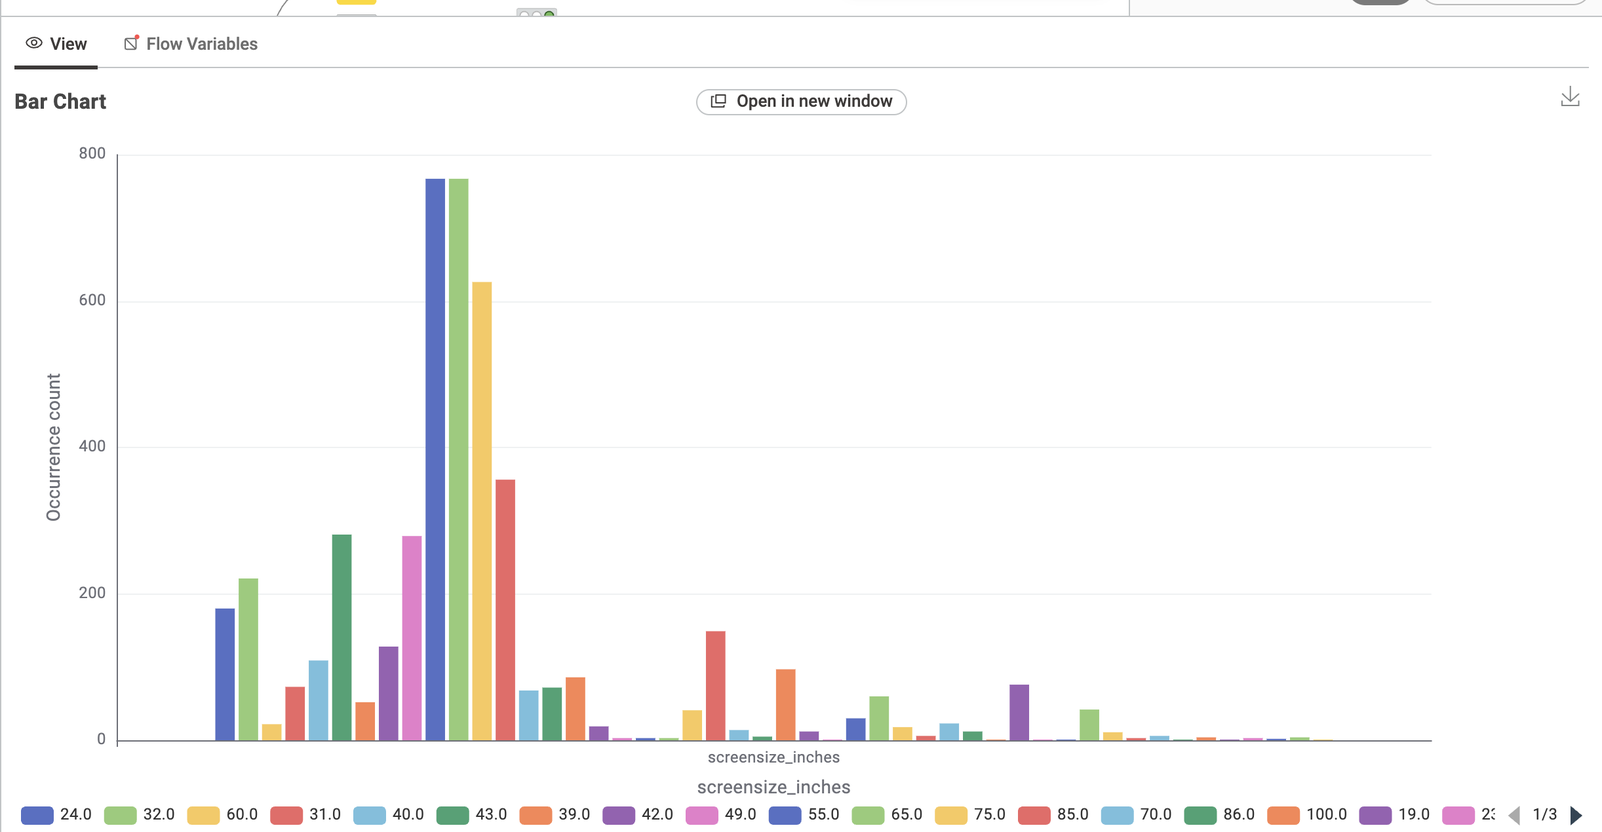
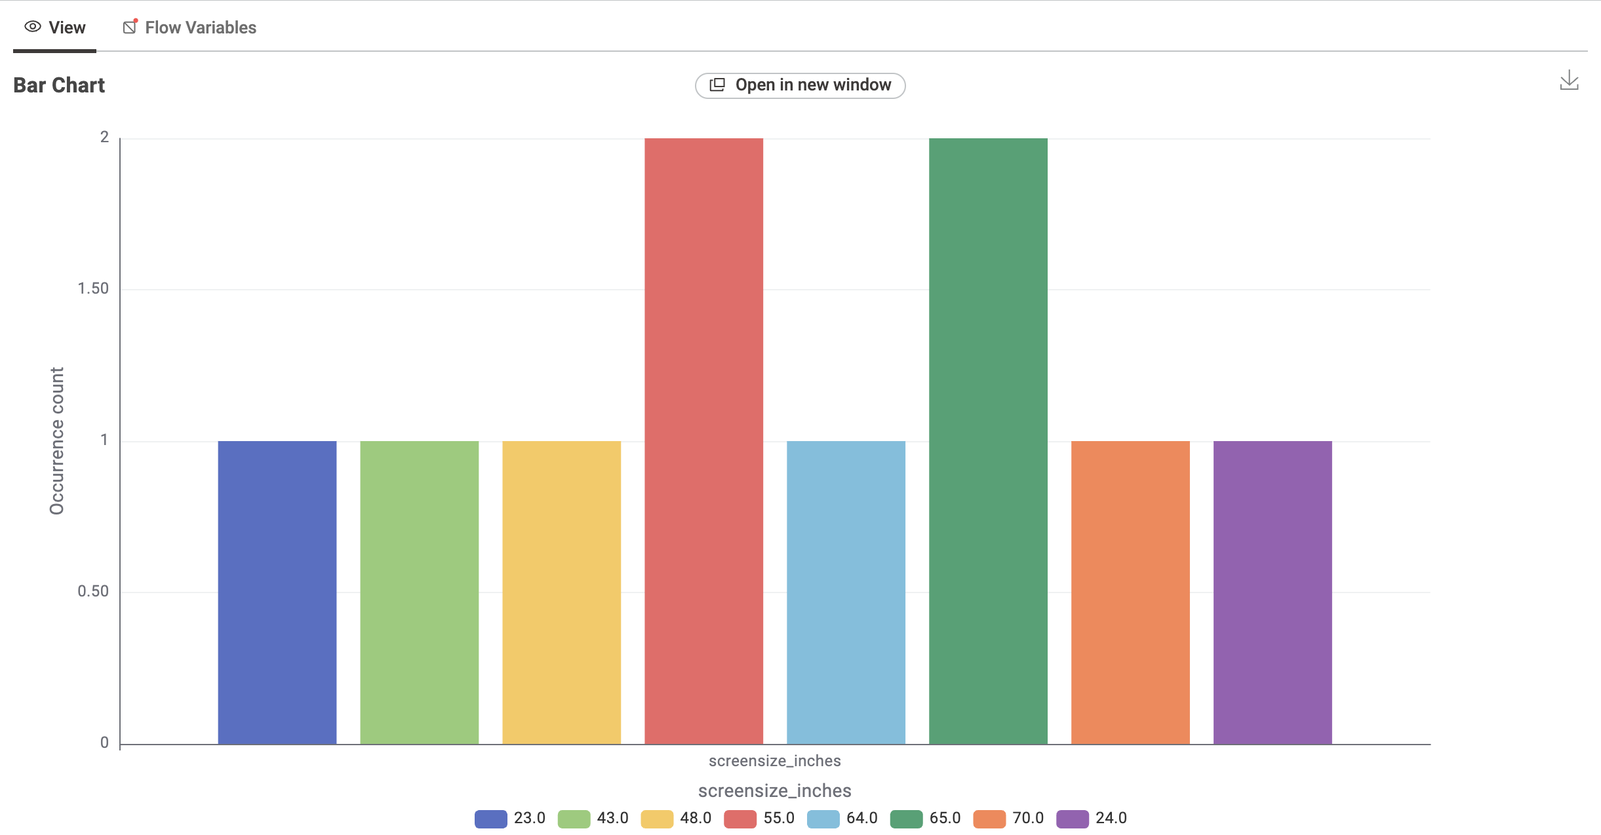
Big Changes

diff --git a/style.css b/style.css
@@ -1,116 +1,154 @@
 /* Colours taken from the Power logo */
 :root {
   /* Main dark colour used for headings and the header. */
-  --brown: #5b3826;
+  --brown: #5b3826; /* Stores the site's main dark colour. */
   /* Light background colour used throughout the site. */
-  --cream: #fdf3d1;
+  --cream: #fdf3d1; /* Stores the site's light background colour. */
   /* Accent colour used for highlights and hover states. */
-  --orange: #f2a530;
+  --orange: #f2a530; /* Stores the site's accent colour. */
   /* Reusable white colour for cards and text. */
-  --white: #ffffff;
+  --white: #ffffff; /* Stores the reusable white colour. */
   /* Default text colour. */
-  --text: #333333;
+  --text: #333333; /* Stores the default text colour. */
 }
 
 /* Make width and height calculations include padding and borders. */
-* { box-sizing: border-box; }
+* { box-sizing: border-box; /* Includes padding and borders in element dimensions. */ }
 
 /* Set the default appearance for the whole document. */
 body {
   /* Remove the browser's default page margin. */
-  margin: 0;
+  margin: 0; /* Removes the browser's default page margin. */
   /* Choose the main font for the page. */
-  font-family: Arial, sans-serif;
+  font-family: Arial, sans-serif; /* Sets the site's default typeface. */
   /* Add comfortable vertical spacing between lines of text. */
-  line-height: 1.6;
+  line-height: 1.6; /* Adds readable vertical spacing between text lines. */
   /* Use the reusable text colour variable. */
-  color: var(--text);
+  color: var(--text); /* Applies the default text colour. */
   /* Use the cream colour as the page background. */
-  background: var(--cream);
+  background: var(--cream); /* Applies the shared page background. */
 }
 
 /* Remove underlines and inherit the surrounding text colour from links. */
-a { color: inherit; text-decoration: none; }
+a { color: inherit; text-decoration: none; /* Removes underlines and inherits link colour. */ }
 
 /* Give all heading levels the same colour and bottom spacing. */
-h1, h2, h3 { margin: 0 0 0.5rem; color: var(--brown); }
+h1, h2, h3 { margin: 0 0 0.5rem; /* Adds consistent heading spacing. */ color: var(--brown); /* Applies the heading colour. */ }
 
 /* Arrange the logo and navigation across the top of the page. */
 .site-header {
-  display: flex;
-  align-items: center;
-  justify-content: space-between;
-  flex-wrap: wrap;
-  gap: 1rem;
-  padding: 1rem 1.5rem;
-  background: var(--brown);
+  display: flex; /* Places header items in a flexible row. */
+  align-items: center; /* Vertically aligns header items. */
+  justify-content: space-between; /* Separates branding and navigation. */
+  flex-wrap: wrap; /* Allows header items to wrap on narrow screens. */
+  gap: 1rem; /* Adds space between wrapped header items. */
+  padding: 1rem 1.5rem; /* Adds space inside the header. */
+  background: var(--brown); /* Applies the shared header colour. */
 }
 
 /* Keep the logo and brand name next to each other. */
-.brand { display: flex; align-items: center; gap: 0.75rem; }
+.brand { display: flex; /* Places logo and name in one row. */ align-items: center; /* Vertically aligns logo and name. */ gap: 0.75rem; /* Adds space between logo and name. */ }
 /* Set a consistent logo size. */
-.brand img { width: 48px; height: 48px; }
+.brand img { width: 48px; /* Sets the logo width. */ height: 48px; /* Sets the logo height. */ }
 /* Style the brand name in the header. */
-.brand-name { color: var(--white); font-weight: bold; font-size: 1.1rem; }
+.brand-name { color: var(--white); /* Makes the brand name readable on the header. */ font-weight: bold; /* Emphasises the brand name. */ font-size: 1.1rem; /* Sets the brand name size. */ }
 /* Place navigation links in a row. */
-.site-nav { display: flex; gap: 0.5rem; }
+.site-nav { display: flex; /* Places navigation links in a row. */ gap: 0.5rem; /* Adds space between navigation links. */ }
 /* Style each navigation link. */
-.nav-link { padding: 0.5rem 1rem; color: var(--cream); font-weight: bold; border-radius: 4px; }
+.nav-link { padding: 0.5rem 1rem; /* Creates a comfortable link target. */ color: var(--cream); /* Applies the navigation text colour. */ font-weight: bold; /* Emphasises navigation labels. */ border-radius: 4px; /* Softens link corners. */ }
 /* Change the link colours when the pointer is over a link. */
-.nav-link:hover { background: var(--orange); color: var(--brown); }
+.nav-link:hover { background: var(--orange); /* Highlights the hovered link. */ color: var(--brown); /* Keeps hovered text readable. */ }
 /* Highlight the link for the page currently being viewed. */
-.nav-link[aria-current="page"] { background: var(--cream); color: var(--brown); }
+.nav-link[aria-current="page"] { background: var(--cream); /* Marks the current page. */ color: var(--brown); /* Applies readable current-link text. */ }
 
 /* Limit the content width and add space around it. */
-.page-shell { max-width: 1000px; margin: 0 auto; padding: 2rem 1.5rem; }
+.page-shell { max-width: 1000px; /* Limits line length on wide screens. */ margin: 0 auto; /* Centers the main content. */ padding: 2rem 1.5rem; /* Adds space around the main content. */ }
 /* Add space below the introductory text. */
-.intro { margin-bottom: 2rem; }
+.intro { margin-bottom: 2rem; /* Separates the introduction from following content. */ }
 /* Style supporting introductory text. */
-.lede { color: var(--brown); }
+.lede { color: var(--brown); /* Styles introductory supporting text. */ }
 /* Style explanatory notes in italic text. */
-.note { color: var(--brown); font-style: italic; }
+.note { color: var(--brown); /* Applies the note text colour. */ font-style: italic; /* Distinguishes explanatory notes. */ }
 
 /* Create a three-column layout for groups of cards. */
-.card-grid { display: grid; grid-template-columns: repeat(3, 1fr); gap: 1rem; margin-bottom: 1.5rem; }
+.card-grid { display: grid; /* Creates a card layout. */ grid-template-columns: repeat(3, 1fr); /* Shows three cards per row. */ gap: 1rem; /* Adds space between cards. */ margin-bottom: 1.5rem; /* Separates card groups. */ }
 /* Give each card a visible border, background, and internal spacing. */
-.card { padding: 1rem; background: var(--white); border: 2px solid var(--brown); border-radius: 6px; }
+.card { padding: 1rem; /* Adds space inside each card. */ background: var(--white); /* Gives cards a readable surface. */ border: 2px solid var(--brown); /* Defines each card edge. */ border-radius: 6px; /* Softens card corners. */ }
 
 /* Style highlighted information blocks. */
-.highlight { padding: 1rem; margin-bottom: 1.5rem; background: var(--white); border-left: 6px solid var(--orange); border-radius: 6px; }
+.highlight { padding: 1rem; /* Adds space inside the highlight. */ margin-bottom: 1.5rem; /* Separates the highlight from charts. */ background: var(--white); /* Gives the highlight a clear surface. */ border-left: 6px solid var(--orange); /* Draws attention to the highlight. */ border-radius: 6px; /* Softens the highlight corners. */ }
 /* Put the second line of a highlight on its own line. */
-.highlight span { display: block; margin-top: 0.5rem; color: var(--brown); }
+.highlight span { display: block; /* Places supporting highlight text on its own line. */ margin-top: 0.5rem; /* Separates supporting text from the summary. */ color: var(--brown); /* Applies the supporting text colour. */ }
 
-/* Allow wide tables to scroll on small screens. */
-.table-wrap { overflow-x: auto; margin-bottom: 2rem; }
-/* Make the table fill the available content width. */
-table { width: 100%; min-width: 600px; border-collapse: collapse; background: var(--white); }
-/* Add spacing and borders to table cells. */
-th, td { padding: 0.75rem 1rem; border-bottom: 1px solid var(--brown); text-align: left; }
-/* Make the table header easy to distinguish. */
-th { background: var(--brown); color: var(--white); }
-/* Style the small labels inside the table. */
-.tag { display: inline-block; padding: 0.2rem 0.5rem; background: var(--cream); border: 1px solid var(--orange); border-radius: 4px; font-size: 0.85rem; }
-
-/* Create a two-column layout for chart cards. */
-.chart-grid { display: grid; grid-template-columns: repeat(2, 1fr); gap: 1rem; margin-bottom: 1.5rem; }
-/* Frame each chart and hide anything outside its border. */
-.chart-card { margin: 0; background: var(--white); border: 2px solid var(--brown); border-radius: 6px; overflow: hidden; }
-/* Keep chart images at a consistent height. */
-.chart-card img { display: block; width: 100%; height: 220px; object-fit: contain; background: var(--white); }
-/* Add spacing around chart captions. */
-.chart-card figcaption { padding: 0.75rem 1rem; }
-/* Put the supporting caption text below the title. */
-.chart-card figcaption span { display: block; color: var(--brown); font-size: 0.9rem; }
+/* Keep each chart and its description together without a separate frame. */
+.chart-card { margin: 0; /* Removes the browser's default figure margin. */ }
+/* Keep chart images visible at their natural proportions. */
+.chart-card img { display: block; /* Removes inline-image whitespace. */ width: 100%; /* Uses the available chart width. */ object-fit: contain; /* Preserves the image proportions. */ background: var(--white); /* Gives transparent image areas a white surface. */ }
 
 /* Style the footer at the bottom of every page. */
-.site-footer { padding: 1rem 1.5rem; background: var(--brown); color: var(--cream); text-align: center; font-size: 0.85rem; }
+.site-footer { padding: 1rem 1.5rem; /* Adds space inside the footer. */ background: var(--brown); /* Applies the footer background. */ color: var(--cream); /* Applies readable footer text. */ text-align: center; /* Centers footer content. */ font-size: 0.85rem; /* Keeps footer text compact. */ }
 /* Keep footer paragraphs close together. */
-.site-footer p { margin: 0.25rem 0; }
+.site-footer p { margin: 0.25rem 0; /* Keeps footer paragraphs close together. */ }
 
 /* Adjust the layout for screens narrower than 700 pixels. */
 @media (max-width: 700px) {
   /* Stack cards and charts into one column on small screens. */
-  .card-grid, .chart-grid { grid-template-columns: 1fr; }
+  .card-grid, .chart-grid { grid-template-columns: 1fr; /* Stacks grid items on narrow screens. */ }
+  /* Keep charts readable without making the mobile page excessively tall. */
   /* Stack the header content vertically on small screens. */
-  .site-header { flex-direction: column; align-items: flex-start; }
+  .site-header { flex-direction: column; /* Stacks header groups on narrow screens. */ align-items: flex-start; /* Aligns stacked header groups to the left. */ }
+}
+
+.televisions-page {
+  background: var(--white); /* Gives the television page the sample's white background. */
+}
+
+.televisions-page .page-shell {
+  max-width: 960px; /* Matches the sample's readable content width. */
+}
+
+.televisions-page .tips-box {
+  margin: 0 0 1.5rem; /* Separates the tips box from the data story. */
+  padding: 1rem 1.25rem; /* Adds space inside the tips box. */
+  background: #fffdf5; /* Gives the tips box a subtle warm surface. */
+  border: 1px solid #e2e2e2; /* Defines the tips box edge. */
+  border-radius: 10px; /* Softens the tips box corners. */
+}
+
+.televisions-page .tips-box p,
+.televisions-page .tips-box ul {
+  margin-top: 0; /* Aligns tips content with the box's top padding. */
+}
+
+.televisions-page .tips-box ul {
+  margin-bottom: 0; /* Removes unnecessary space below the final tip. */
+}
+
+.televisions-page .chart-grid {
+  display: grid; /* Creates the single-column chart sequence. */
+  grid-template-columns: 1fr; /* Gives each chart the full content width. */
+  gap: 1.5rem; /* Separates consecutive charts. */
+  padding: 0; /* Removes shared-box padding from the old layout. */
+  background: transparent; /* Leaves charts on the page background. */
+  border: 0; /* Removes the old shared chart frame. */
+}
+
+.televisions-page .chart-card h3 {
+  margin: 0 0 0.5rem; /* Separates each chart question from its image. */
+  font-size: 1.1rem; /* Keeps chart headings prominent but compact. */
+}
+
+.televisions-page .chart-card img {
+  height: auto; /* Preserves each chart's natural aspect ratio. */
+  max-height: 620px; /* Prevents very tall images from dominating the page. */
+  object-fit: contain; /* Keeps the complete chart visible. */
+}
+
+.televisions-page .chart-description {
+  margin: 0.5rem 0 0; /* Separates the interpretation from the image. */
+  font-size: 1rem; /* Keeps chart explanations easy to read. */
+}
+
+.televisions-page .conclusion {
+  margin-top: 1.5rem; /* Separates the conclusion from the final chart. */
 }

diff --git a/televisions.html b/televisions.html
@@ -13,7 +13,7 @@
     <link rel="stylesheet" href="style.css" />
   </head>
 
-  <body>
+  <body class="televisions-page">
     <!-- Site header containing the logo and main navigation. -->
     <header class="site-header">
       <!-- Link the logo back to the home page. -->
@@ -36,54 +36,39 @@
       <section>
         <!-- Introductory heading and description. -->
         <div class="intro">
-          <h1>Televisions, in focus.</h1>
-          <p class="lede">Compare screen size and estimated energy use with your viewing habits.</p>
+          <h1>Television Energy Tips</h1>
+          <p class="lede">Simple ways to understand television energy use before choosing a new screen.</p>
         </div>
-        <h2>A sample comparison</h2>
-        <p class="note">Illustrative figures only. Check current product labels.</p>
-        <!-- Wrap the table so it can scroll horizontally on small screens. -->
-        <div class="table-wrap">
-          <!-- Compare television types, sizes, and estimated energy use. -->
-          <table>
-            <thead>
-              <tr>
-                <th>Television type</th>
-                <th>Typical size</th>
-                <th>Estimated annual use</th>
-                <th>Energy note</th>
-              </tr>
-            </thead>
-            <tbody>
-              <tr><td>LED LCD</td><td>55 inch</td><td>120 kWh</td><td><span class="tag">Efficient baseline</span></td></tr>
-              <tr><td>LED LCD</td><td>75 inch</td><td>185 kWh</td><td><span class="tag">Good with mindful use</span></td></tr>
-              <tr><td>OLED</td><td>65 inch</td><td>210 kWh</td><td><span class="tag">Variable by content</span></td></tr>
-              <tr><td>Large format</td><td>85 inch</td><td>295 kWh</td><td><span class="tag">More screen, more demand</span></td></tr>
-            </tbody>
-          </table>
+        <div class="tips-box">
+          <p><strong>Size and technology matter.</strong> Larger screens generally use more energy, while modern LED/LCD and OLED televisions can be more efficient than older technologies.</p>
+          <ul>
+            <li>Use Energy Saver or Eco mode and reduce brightness when comfortable.</li>
+            <li>Disable always-listening voice features if you do not use them.</li>
+            <li>Compare star ratings and annual kWh on the energy label before purchasing.</li>
+          </ul>
         </div>
 
-        <h2>The bigger picture behind the screen</h2>
-        <p class="note">These charts describe the available models in this dataset. They are useful for spotting patterns, not a substitute for the energy label on an individual TV.</p>
+        <h2>TV Energy Insights: Data Story</h2>
+        <p class="note">This section explores the Australian Government's Television Energy Rating dataset. The patterns below help Australian consumers compare technology, screen size, brand availability, and energy efficiency before choosing a TV.</p>
         <!-- Summarise the main pattern shown by the charts. -->
         <div class="highlight">
-          <strong>LCD (LED) is the dominant technology in the Australian listings.</strong>
-          <span>That availability connects with the other charts: the market has many mid-to-large screen options, while power use varies by both screen technology and brand.</span>
+          <strong>Screen size and technology both shape a television's energy profile.</strong>
+          <span>The dataset is led by LCD LED models and popular mid-sized screens, while the scatter plots show that larger televisions generally require more power.</span>
         </div>
         <!-- Display the project charts in a responsive grid. -->
         <div class="chart-grid">
-          <figure class="chart-card"><img src="Picture/PieChart1.png" alt="Pie chart showing LCD LED as the largest TV screen technology category" /><figcaption><strong>Screen technology mix</strong><span>LCD (LED) is the largest listed category.</span></figcaption></figure>
-          <figure class="chart-card"><img src="Picture/BarChart1.png" alt="Bar chart showing LCD LED has the highest occurrence count" /><figcaption><strong>Technology availability</strong><span>LCD (LED) appears most often.</span></figcaption></figure>
-          <figure class="chart-card"><img src="Picture/BarChart2.png" alt="Bar chart comparing television screen sizes" /><figcaption><strong>Common screen sizes</strong><span>55-inch models are the most common.</span></figcaption></figure>
-          <figure class="chart-card"><img src="Picture/BarChart3.png" alt="Bar chart comparing number of television models by brand" /><figcaption><strong>Model variety</strong><span>Kogan has the most listed models.</span></figcaption></figure>
-          <figure class="chart-card"><img src="Picture/BarChart4.png" alt="Bar chart comparing median power by screen technology" /><figcaption><strong>Power by technology</strong><span>OLED has the highest median power use.</span></figcaption></figure>
-          <figure class="chart-card"><img src="Picture/BarChart5.png" alt="Bar chart comparing power totals across brands" /><figcaption><strong>Power by brand</strong><span>Samsung Electronics has the highest total.</span></figcaption></figure>
+          <figure class="chart-card"><h3>Chart 1: What TV technologies are most common?</h3><img src="Picture/PieChart1.png" alt="Pie chart showing LCD LED as the largest TV screen technology category" /><p class="chart-description">LCD(LED) models make up most listings, while OLED is less common.</p></figure>
+          <figure class="chart-card"><h3>Chart 1: Technology counts</h3><img src="Picture/BarChart1.png" alt="Bar chart showing LCD LED has the highest occurrence count" /><p class="chart-description">The bar chart shows LCD(LED) is leading position in the dataset.</p></figure>
+          <figure class="chart-card"><h3>Chart 2: What screen sizes are most frequent?</h3><img src="Picture/BarChart2.png" alt="Bar chart comparing television screen sizes" /><p class="chart-description">55-inch and 65-inch TVs are most common.</p></figure>
+          <figure class="chart-card"><h3>Chart 3: Which brands dominate the market?</h3><img src="Picture/BarChart3.png" alt="Bar chart comparing number of television models by brand" /><p class="chart-description">Kogan, LG, and Samsung Electronics have the largest number of listed models.</p></figure>
+          <figure class="chart-card"><h3>Chart 4: Which screen type uses the least power?</h3><img src="Picture/BarChart4.png" alt="Bar chart comparing median power by screen technology" /><p class="chart-description">LCD TVs use the least power in this comparison, while OLED uses slightly more.</p></figure>
+          <figure class="chart-card"><h3>Chart 5: How does screen size relate to power use?</h3><img src="Picture/Scatter_plot_a.png" alt="Scatter plot showing the relationship between television screen size and power use" /><p class="chart-description">The relationship is clearly positive: larger TVs generally use more power.</p></figure>
+          <figure class="chart-card"><h3>Chart 6: How do star rating and screen size relate?</h3><img src="Picture/Scatter_plot_b.png" alt="Scatter plot showing the relationship between television star rating and screen size" /><p class="chart-description">Star ratings are spread across sizes, showing that bigger TVs can still be efficient when well designed.</p></figure>
         </div>
-        <!-- Provide short reminders about television energy use. -->
-        <div class="card-grid">
-          <article class="card"><h3>Brightness matters</h3><p>Higher brightness can draw more power.</p></article>
-          <article class="card"><h3>Standby is still use</h3><p>Switching off at the wall can reduce idle use.</p></article>
-          <article class="card"><h3>Size has a trade-off</h3><p>Larger panels usually use more energy.</p></article>
-        </div>
+        <section class="conclusion">
+          <h2>Conclusion</h2>
+          <p>When choosing a TV, balance screen size, technology, brand, and efficiency. A 55-inch LED TV is common and can be an energy-smart choice for many households.</p>
+        </section>
       </section>
     </main>
     

diff --git a/about_us.html b/about_us.html
@@ -34,32 +34,19 @@
     <!-- Main content describing the project. -->
     <main class="page-shell">
       <section>
-        <!-- Introductory heading and description. -->
+        <!-- Introduce the purpose of the website. -->
         <div class="intro">
-          <h1>Useful context for better decisions.</h1>
-          <p class="lede">An educational project about appliance energy use in Australia.</p>
+          <h1>About This Site</h1>
+          <p class="lede">This educational website demonstrates basic web development and shares simple pointers on appliance energy consumption in Australia.</p>
         </div>
-        <!-- Highlight the main purpose of the project. -->
-        <div class="highlight">
-          <strong>Energy information should be clear enough to use at home and when comparing bills.</strong>
-          <span>We use simple explanations and indicative comparisons to make energy information easier to use. Always check official product labels. Climate, homes, electricity plans, and viewing habits affect results.</span>
-        </div>
-        <h2>Project principles</h2>
-        <!-- Present the project's three guiding principles. -->
-        <div class="card-grid">
-          <article class="card">
-            <h3>Make it legible</h3>
-            <p>Use language people can act on.</p>
-          </article>
-          <article class="card">
-            <h3>Show the assumptions</h3>
-            <p>Keep estimates illustrative and use official data.</p>
-          </article>
-          <article class="card">
-            <h3>Keep it local</h3>
-            <p>Focus on appliances in Australian homes.</p>
-          </article>
-        </div>
+        <!-- Credit the creator and tools used for the website. -->
+        <section>
+          <h2>Credits</h2>
+          <div class="highlight">
+            <p>Created by Tong Chung Zhe. Design colours match the lightning “power” logo.</p>
+            <p>GenAI tools were used to help draft starter code and placeholder text.</p>
+          </div>
+        </section>
       </section>
     </main>
     

diff --git a/README.md b/README.md
@@ -1,0 +1,39 @@
+# Power Australia
+
+Power Australia is a simple educational website designed to help people understand household energy use, especially when comparing appliances and televisions. The project presents a clear, user-friendly explanation of why appliance efficiency matters and how small choices can influence electricity bills and energy consumption in Australian homes.
+
+## Project Overview
+
+This website is built as a three-page static web project using HTML, CSS, and JavaScript. It introduces the idea of energy awareness through a clean homepage, a television-focused information page, and an About Us page. The main goal is to make energy labels, appliance efficiency, and household electricity use easier to understand for everyday users.
+
+## Website Content
+
+The homepage explains key concepts such as:
+
+- understanding energy labels
+- comparing wattage and running time
+- considering seasonal usage patterns
+- how household habits affect annual electricity consumption
+
+The Television page explores the relationship between screen size, technology, and power use. It includes visualisations such as bar charts and scatter plots to show how larger TVs typically consume more power, while factors like technology and energy rating can influence efficiency. These charts make the data story more accessible and help users understand how to compare models before purchasing.
+
+## GenAI Use
+
+This project also demonstrates the use of Generative AI in website development. GenAI was used to support the creation of the project structure, generate starter code, improve website copy, and help shape the data storytelling content. It assisted with drafting clear explanations, summarising design ideas, and refining the tone of the website so it feels informative and approachable.
+
+Although GenAI contributed to the code and written content, the final project was reviewed and adapted to match the project’s purpose and educational goals. This reflects a realistic use of AI in digital design and data communication: it accelerates the early stages of development while human judgement remains important for accuracy, quality, and user value.
+
+## Files Included
+
+- index.html – landing page
+- televisions.html – TV energy insights and charts
+- about_us.html – project background and credits
+- style.css – shared design styling
+- script.js – page behaviour and navigation support
+- Picture/ – visual assets and chart images
+
+## How to View the Website
+
+Open the project folder and launch index.html in a browser. For a smoother experience, you can also use a local development server such as Live Server in VS Code.
+
+This project demonstrates how a small website can combine design, educational content, and data visualisation to communicate real-world ideas in a simple and engaging way.
